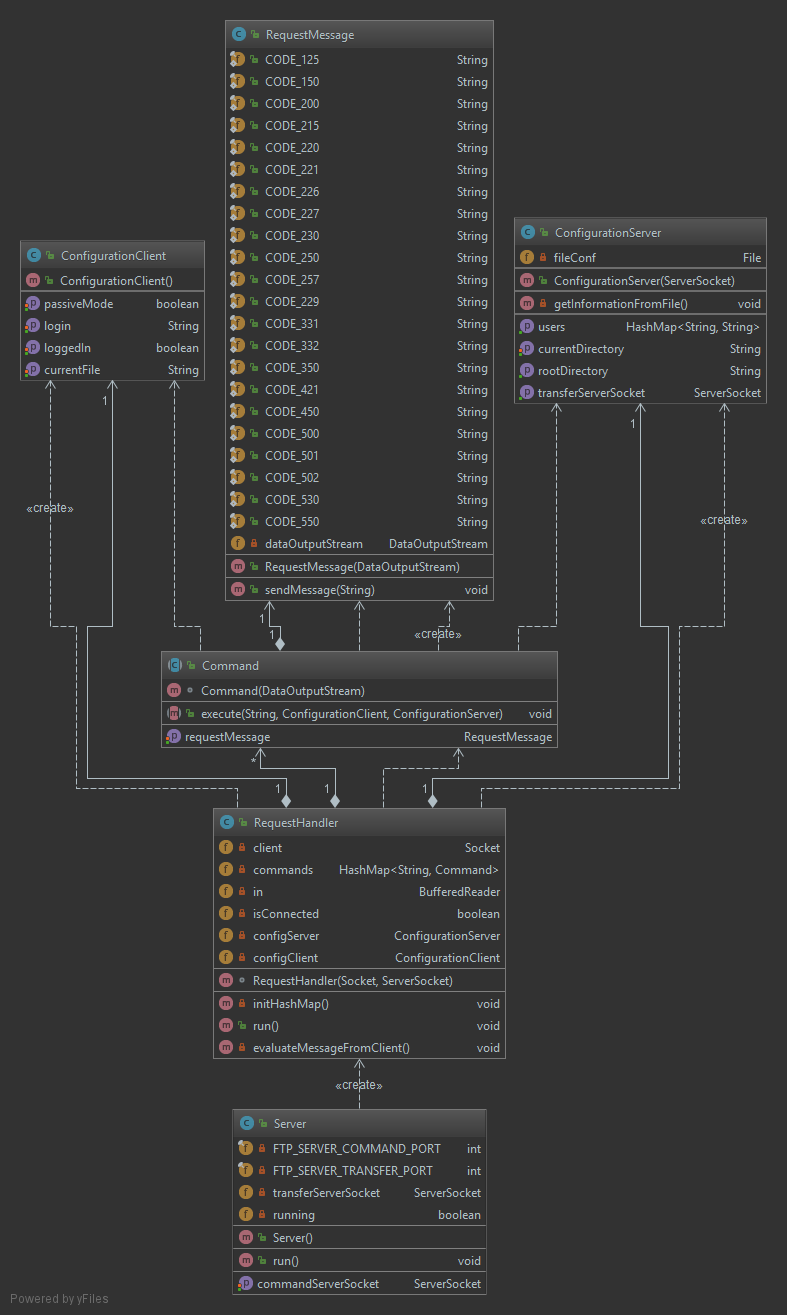
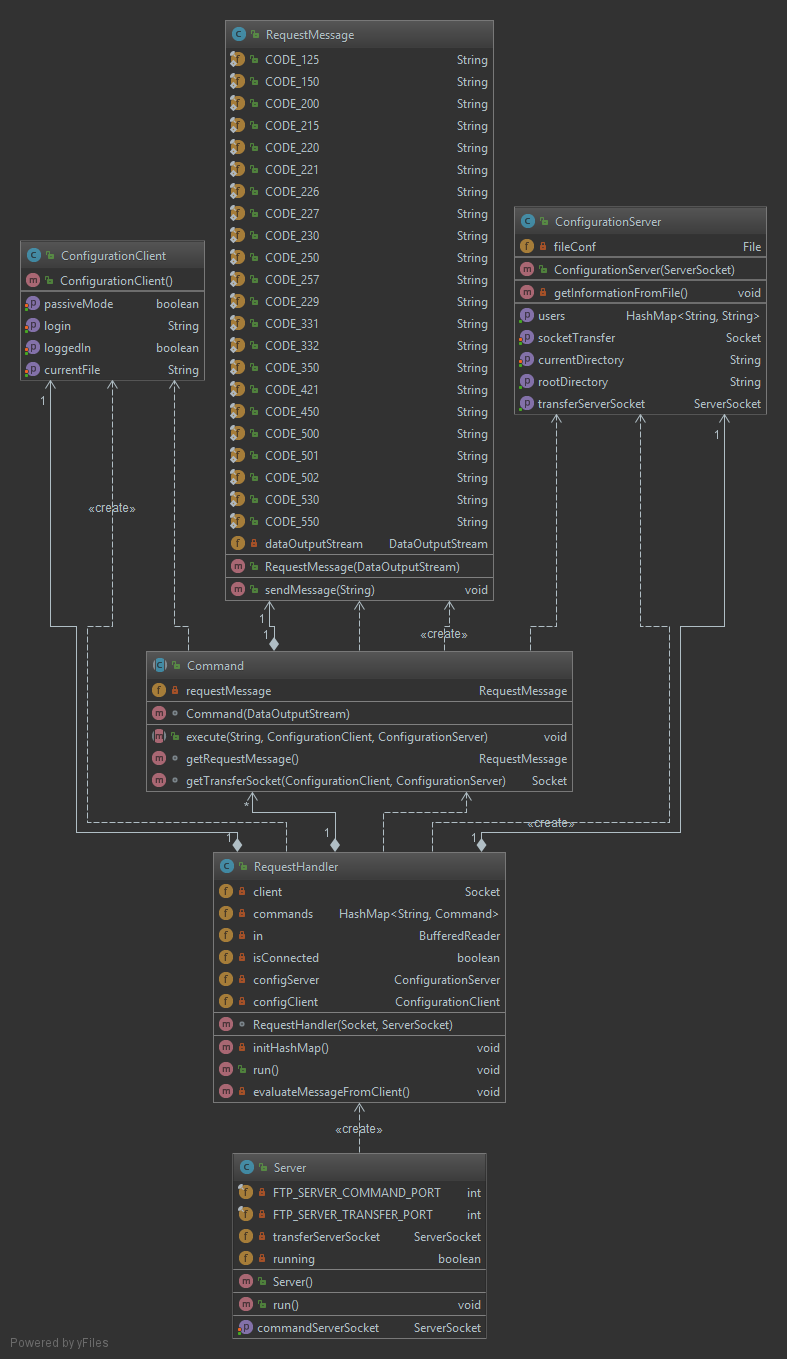
update diagrams

Changed region(s): [[0.0305, 0.0, 0.9759, 0.9977], [0.0305, 0.3741, 0.0915, 0.4053], [0.9149, 0.3741, 0.9454, 0.4053]]

diff --git a/CAR-FTP/src/main/java/tp1/commands/Command.java b/CAR-FTP/src/main/java/tp1/commands/Command.java
@@ -51,6 +51,13 @@ public abstract class Command {
     }
 
 
+    /**
+     * Get transfert socket within actif or passive mode
+     * @param configClient
+     * @param configServer
+     * @return transferSocket
+     * @throws Exception
+     */
     Socket getTransferSocket(ConfigurationClient configClient, ConfigurationServer configServer) throws Exception {
         Socket transferSocket;
         if (configClient.isPassiveMode()) {

diff --git a/CAR-FTP/README.md b/CAR-FTP/README.md
@@ -41,7 +41,7 @@ On y trouve deux configurations, une pour le `client`, une pour le `serveur` per
 Chaque commandes sont définis par une classe qui implémente la classe abstraite `Command` et sont stockés dans une Hashmap, présent dans `RequestHandler`.  
 Ainsi, vous pouvez voir l'ensemble des commandes mis en place ci-dessous :  
 
-![image](diagrams/commands.png)
+![image](diagrams/server.png)
  
  Ces commandes ont chacune une seule méthode `execute` qui traite la requête du client et qui renvoie les informations nécessaire à son fonctionnement.  
  Pour cela, nous avons utilisé une classe permettant de gérer les réponses possible à envoyer au client : `RequestMessage`. Elle y répertorie, les différents codes à envoyer au client, pour que celui-ci puisse comprendre ce que nous avons réalisé.
